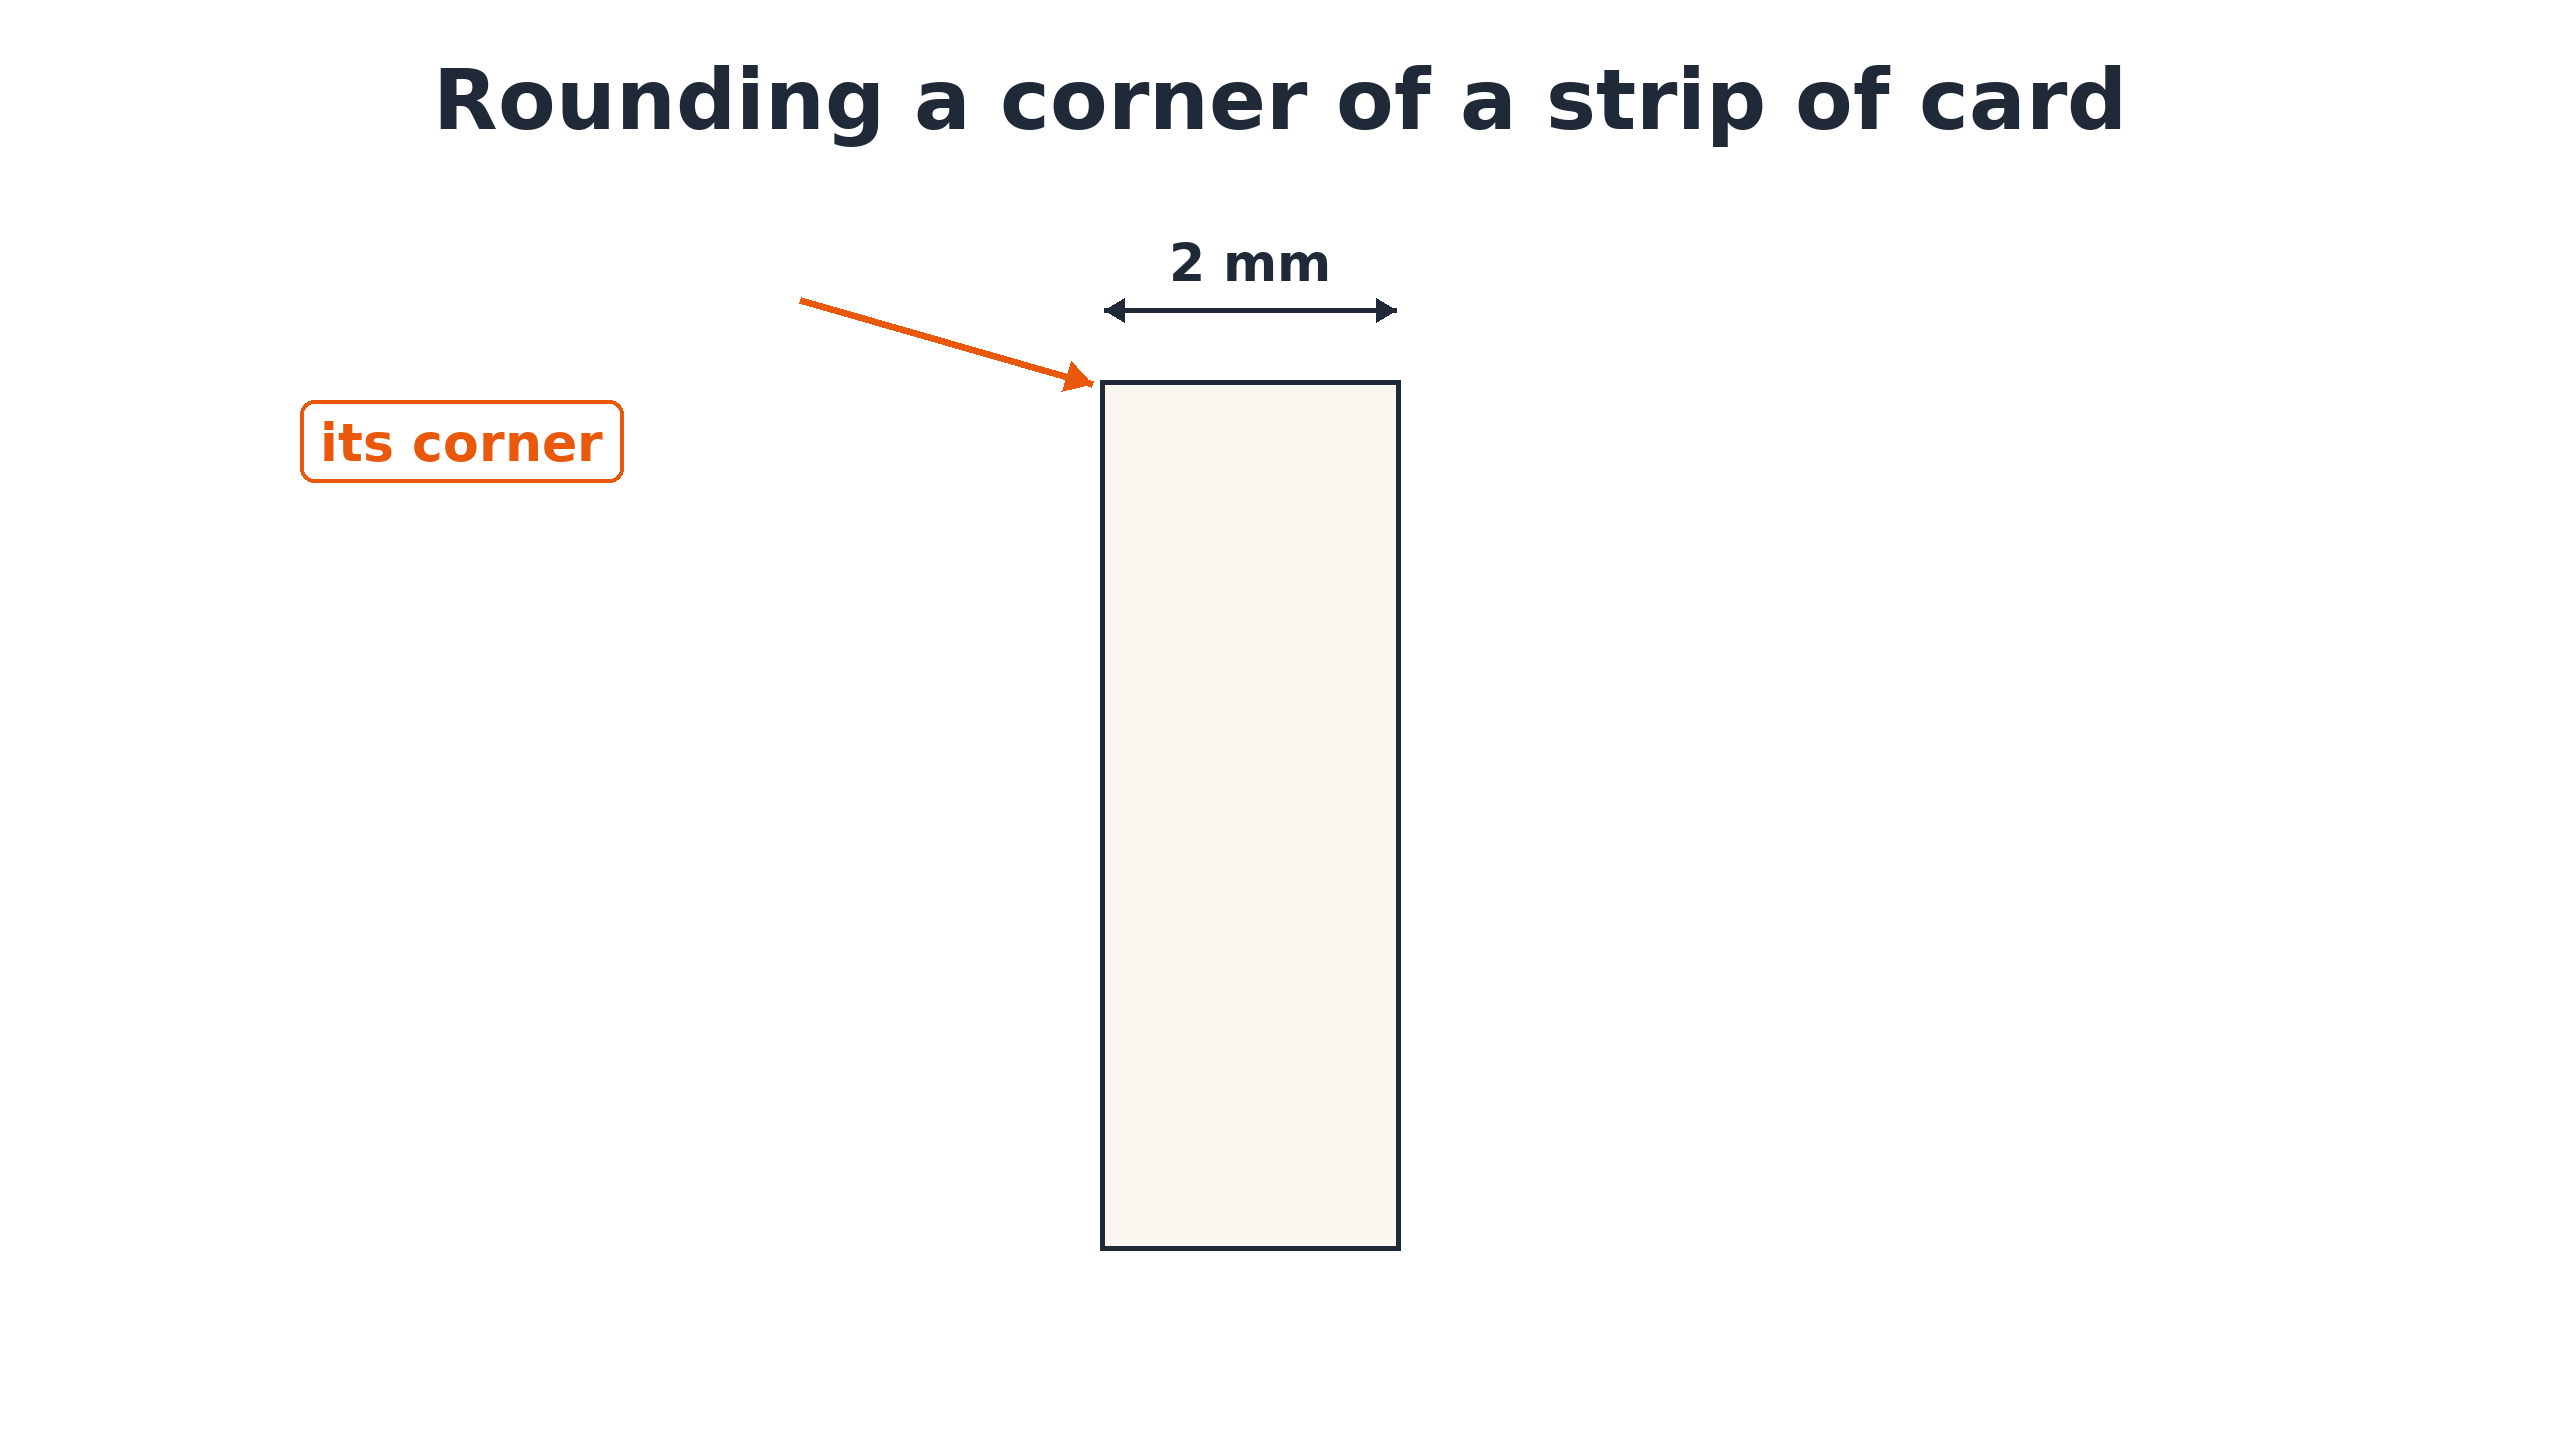
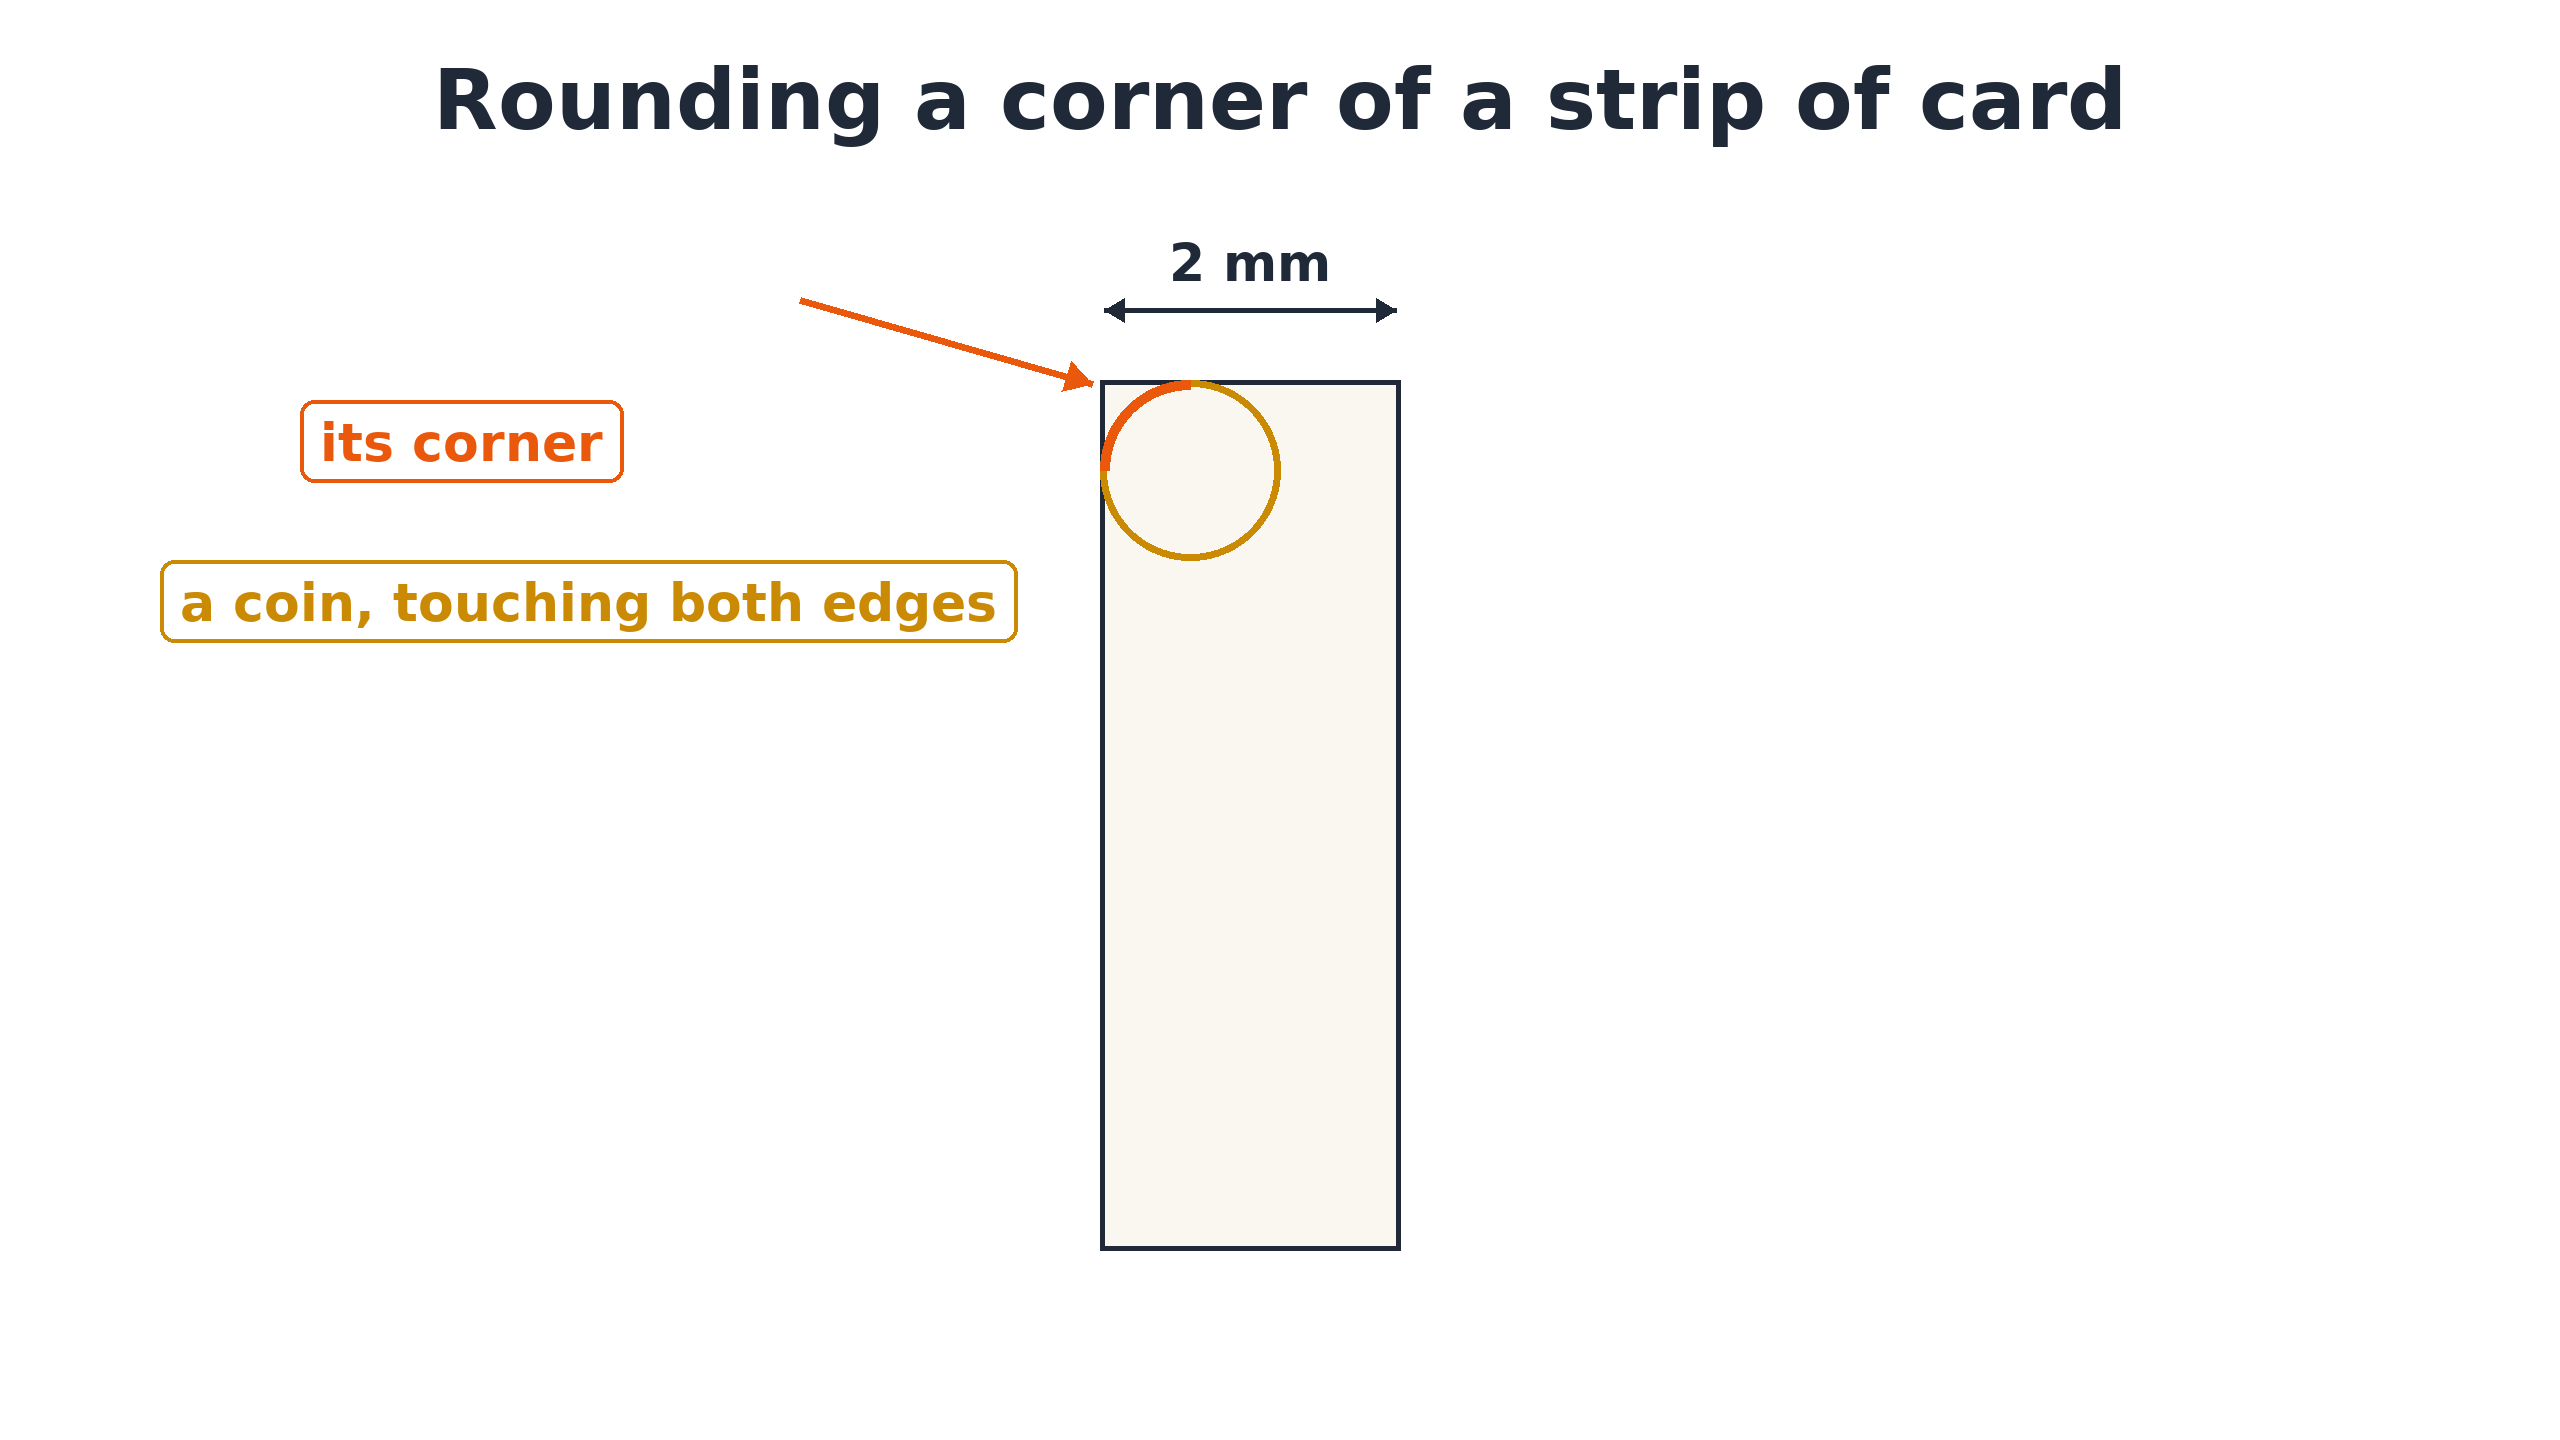
fc15 cut 2: round card builds one idea per step (step 4 adds the inside round, same 2); coin card step 1 draws the coin in the corner; test_cards_build_one_idea_per_step red first; 15 pass

diff --git a/video/draw_fc15.py b/video/draw_fc15.py
@@ -149,7 +149,8 @@ def overlap_bar(d, xa, xb, yt, col=RED):
 # --- F1: a round, its radius --------------------------------------------------------------------------------------------
 def card_round(step):
     """F1: 1 a sharp edge; 2 the edge as a curve, radius 1 with its arrow, "round = Fillet"; 3 radius 3 past the
-    strip, "3 > 2" beside "the cup's side, 2 thick", and a small inside curve, "same 2"."""
+    strip, "3 > 2" beside "the cup's side, 2 thick"; 4 (cut 1 review: one idea per step) adds a small inside curve,
+    "same 2"."""
     im, d = canvas()
     header(d, 'A round swaps a sharp edge for a curve')
     k, x0, yt, yb = 170, 900, 520, 1260
@@ -164,13 +165,14 @@ def card_round(step):
         text(d, (x0 + r + 20, yt + r + 10), 'radius 1', 52, ORANGE)
         chip_on(d, (200, 300), 'round = Fillet', ORANGE)
     else:
-        x1 = section(d, x0, yt, yb, k, inn=RIN, big=ROUT, out_col=DONE, in_col=BLUE)
+        x1 = section(d, x0, yt, yb, k, inn=RIN if step == 4 else None, big=ROUT, out_col=DONE, in_col=BLUE)
         r = ROUT * k
         f10.harrow(d, x0 + r, yt + r, x0 + r - r * 0.7071, yt + r - r * 0.7071, RED, w=6, s=22)
         text(d, (x0 + r + 20, yt + r + 10), 'radius 3', 52, RED)
         chip_on(d, (200, 300), 'round = Fillet', DONE)
-        chip_on(d, (1700, 520), '3 > 2', RED, px=72)
-        chip_on(d, (1700, 900), 'same 2', BLUE)
+        chip_on(d, (1700, 520), '3 > 2', RED if step == 3 else DONE, px=72)
+        if step == 4:
+            chip_on(d, (1700, 900), 'same 2', BLUE)
     width_mark(d, x0, x1, yb + 70, "the cup's side, 2 thick", INK if step == 3 else DONE)
     save(im, f'card-round-{step}.png')
 
@@ -193,6 +195,10 @@ def card_coin(step):
     if step == 1:
         f10.harrow(d, 800, 300, x0 - 8, yt + 4, ORANGE, w=7)
         chip_on(d, (300, 400), 'its corner', ORANGE)
+        r = 0.6 * k     # cut 1 review: the coin the words describe, laid in the corner, touching both edges
+        coin(d, x0 + r, yt + r, r)
+        d.arc((x0, yt, x0 + 2 * r, yt + 2 * r), 180, 270, fill=ORANGE, width=10)
+        chip_on(d, (160, 560), 'a coin, touching both edges', COIN)
     if step == 2:
         r = ROUT * k
         coin(d, x0 + r, yt + r, r)
@@ -542,6 +548,7 @@ def main():
     PROBLEMS.clear()
     LOG.clear()
     PANEL_NAMES.clear()
+    card_round(4)
     for s in (1, 2, 3):
         card_round(s)
         card_coin(s)

diff --git a/tests/test_draw_fc15.py b/tests/test_draw_fc15.py
@@ -18,7 +18,7 @@ from PIL import Image
 sys.path.insert(0, os.path.join(os.path.dirname(os.path.abspath(__file__)), '..', 'video'))
 import draw_fc15 as d  # noqa: E402
 
-STEPS = {'card-round': 3, 'card-coin': 3, 'card-why': 4, 'card-rule': 3}
+STEPS = {'card-round': 4, 'card-coin': 3, 'card-why': 4, 'card-rule': 3}
 CARDS = ([f'{s}-{i}.png' for s, k in STEPS.items() for i in range(1, k + 1)] +
          ['card-end.png', 'still-after-A1.png', 'still-after-B1.png'])
 SHORT = ['card-why-s1.png', 'card-why-s2.png', 'card-why-s3.png']
@@ -195,3 +195,24 @@ def test_after_stills_show_the_part_big(run):
     for r in ('A1', 'B1'):
         assert d.STILL_K[r] >= 1.0, (r, d.STILL_K[r])
         assert 'whole window' in texts(run, f'still-after-{r}.png')
+
+
+def _said(fn, step, monkeypatch):
+    seen = []
+    monkeypatch.setattr(d, 'chip_on', lambda _d, _xy, s, *a, **k: seen.append(s))
+    monkeypatch.setattr(d, 'text', lambda _d, _xy, s, *a, **k: seen.append(s))
+    monkeypatch.setattr(d, 'coin', lambda *a, **k: seen.append('COIN'))
+    monkeypatch.setattr(d, 'save', lambda *a, **k: None)
+    fn(step)
+    return seen
+
+
+def test_cards_build_one_idea_per_step(monkeypatch):
+    """fc15 cut 1 blind review (0:27.5, 0:40): the round card dropped radius 3, "3 > 2" and "same 2" at once, and
+    the coin card described a coin in the corner while showing an empty strip. Now: round step 3 = radius 3 + 3 > 2,
+    step 4 adds the inside round "same 2"; coin step 1 draws a coin that fits, touching both edges."""
+    r3, r4 = _said(d.card_round, 3, monkeypatch), _said(d.card_round, 4, monkeypatch)
+    assert '3 > 2' in r3 and 'same 2' not in r3
+    assert 'same 2' in r4 and '3 > 2' in r4
+    c1 = _said(d.card_coin, 1, monkeypatch)
+    assert c1.count('COIN') == 1 and any('both edges' in s for s in c1)
